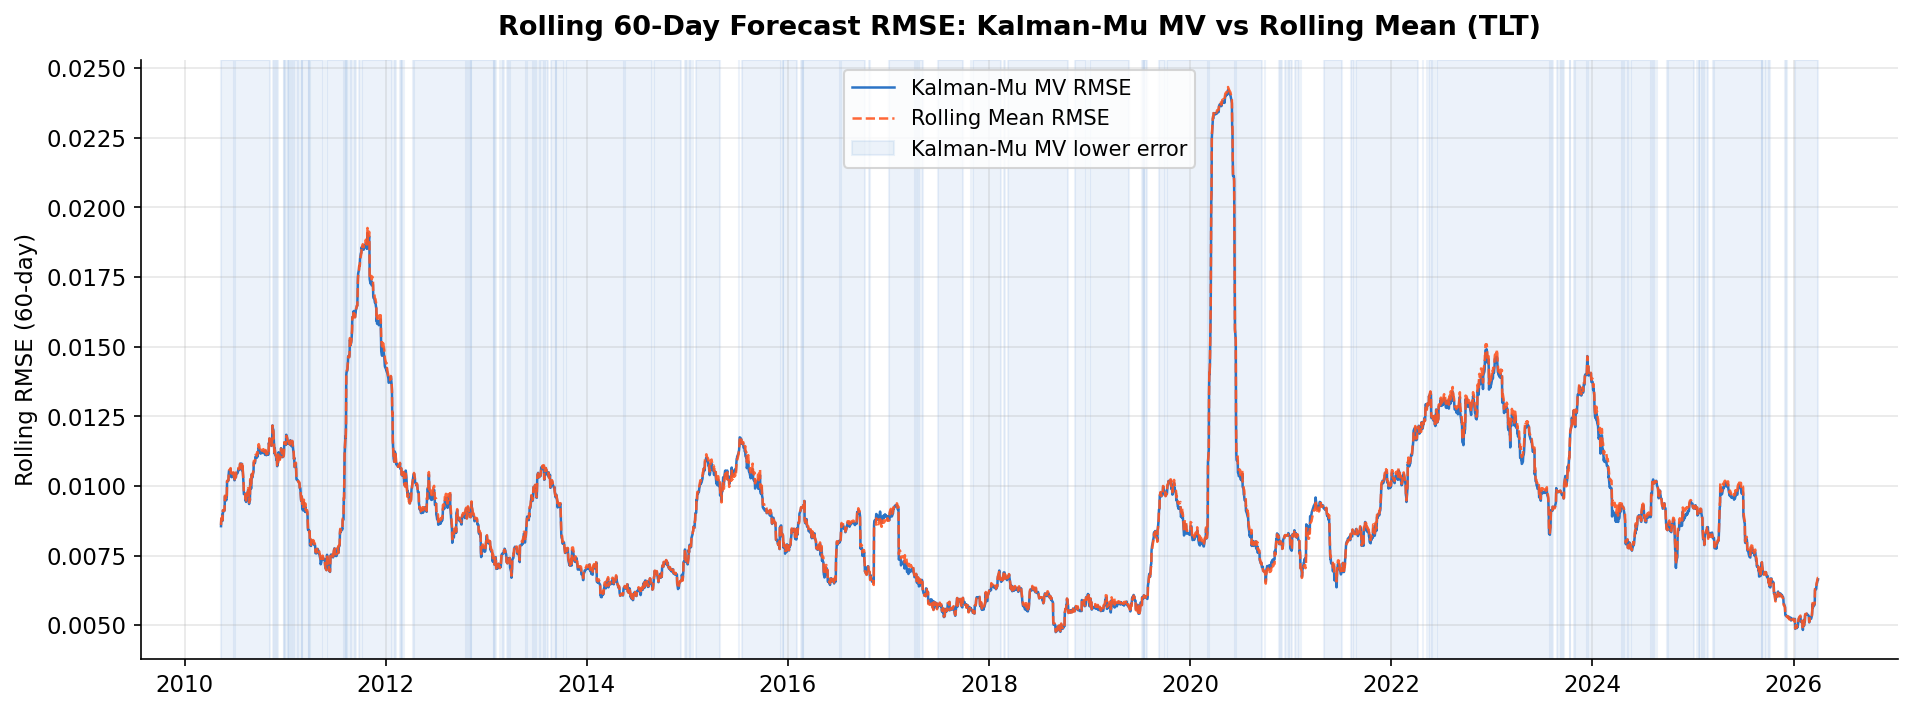
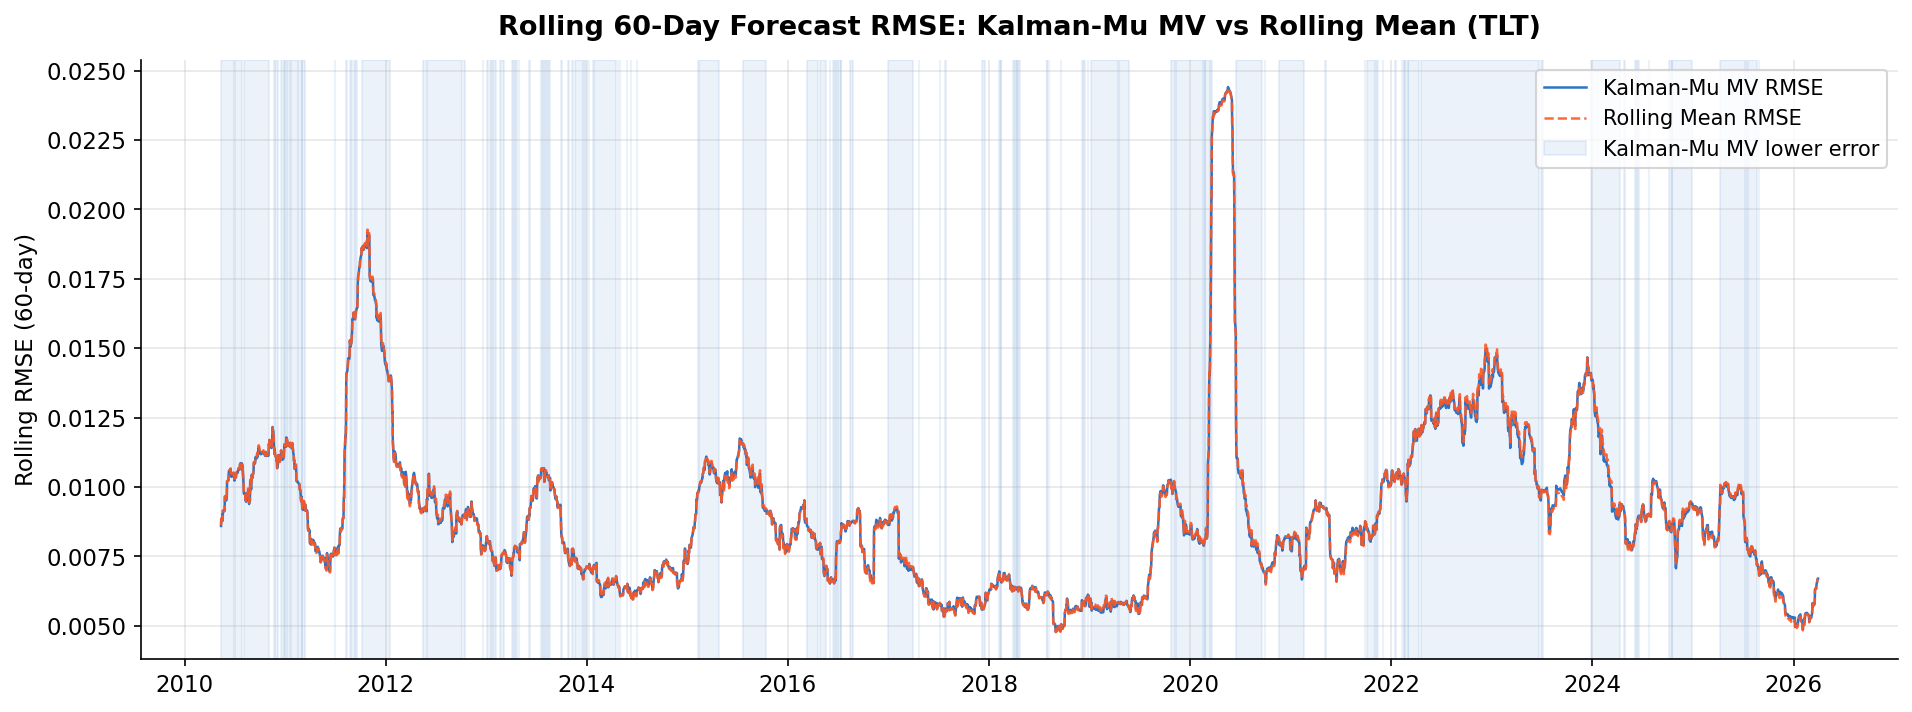
Fix Sharpe formula, switch to simple returns, and extend Kalman-Sigma Q grid to 1e-1Fix Sharpe formula, switch to simple returns, and extend Kalman-Sigma Q grid to 1e-1

diff --git a/data_loader.py b/data_loader.py
@@ -1,5 +1,5 @@
 """
-data_loader.py — Download ETF prices and compute daily log returns.
+data_loader.py — Download ETF prices and compute daily returns.
 
 Usage:
     from data_loader import load_prices, compute_returns, split_data
@@ -37,18 +37,37 @@ def load_prices(
     return prices
 
 
-def compute_returns(prices: pd.DataFrame, method: str = "log") -> pd.DataFrame:
+def compute_returns(prices: pd.DataFrame, method: str = "simple") -> pd.DataFrame:
     """
     Compute daily returns from price data.
 
     Parameters
     ----------
     prices : DataFrame of adjusted close prices
-    method : "log" for log returns, "simple" for arithmetic returns
+    method : "simple" (default) for arithmetic returns, "log" for log returns.
 
     Returns
     -------
     DataFrame of daily returns (first row is NaN, dropped)
+
+    Notes
+    -----
+    Default is "simple", not "log", and this isn't interchangeable with the
+    rest of the pipeline. backtest.py aggregates a portfolio's daily return
+    as a weighted sum across assets (`weights @ r_t`) -- that's only exact
+    for simple returns (dollar values combine linearly, so simple returns
+    do too). For log returns, the true portfolio log return is
+    ln(1 + weights @ r_simple), which by Jensen's inequality (log is
+    concave) is always >= weights @ r_log -- a weighted sum of log returns
+    silently understates the true portfolio return, with the gap growing
+    with cross-sectional dispersion across assets (i.e. worst exactly when
+    assets are moving most differently from each other, such as during
+    CRISIS/HIGH_VOL regimes). Separately, every cumulative-growth
+    calculation downstream (`(1 + daily_returns).cumprod()` in
+    backtest.py/evaluation.py/cost_analysis.py) is also only the correct
+    compounding formula for simple returns. Both issues are resolved at
+    once by using simple returns as the base series feeding the pipeline --
+    nothing downstream needs to change to accommodate it.
     """
     if method == "log":
         import numpy as np

diff --git a/main.py b/main.py
@@ -40,7 +40,7 @@ def main():
     # Step 1: Load Data
     print("\n=== STEP 1: Loading Data ===")
     prices = load_prices()
-    returns = compute_returns(prices)
+    returns = compute_returns(prices, method="simple")
     train, test = split_data(returns)
 
     # Step 2: Calibrate Q + Per-Regime Alphas — one set PER Kalman variant

diff --git a/q_calibration.py b/q_calibration.py
@@ -16,7 +16,7 @@ from backtest import get_rebalance_dates
 
 
 # Grid of Q values to evaluate
-Q_GRID = [1e-8, 5e-8, 1e-7, 5e-7, 1e-6, 5e-6, 1e-5, 5e-5, 1e-4, 5e-4, 1e-3]
+Q_GRID = [1e-8, 5e-8, 1e-7, 5e-7, 1e-6, 5e-6, 1e-5, 5e-5, 1e-4, 5e-4, 1e-3, 5e-3, 1e-2, 5e-2, 1e-1]
 
 
 def select_q_cv(
